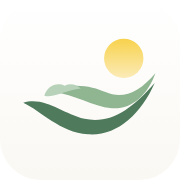
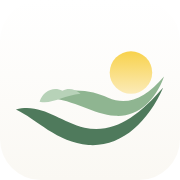
アイコンのマークを、太陽が波の山に重なる構図に調整し、四角アイコンの中での配置を中央に整える
Claude-Session: https://claude.ai/code/session_01GABYT29VUZzXrt2vySzu7C

Changed region(s): [[0.0833, 0.1944, 0.9167, 0.8056]]

diff --git a/src/pages.js b/src/pages.js
@@ -118,7 +118,7 @@ ${chrome ? '<link rel="stylesheet" href="/ds-pages.css">\n' : ''}${extraHead}
 <body data-page="${page}" class="${[chrome ? 'ds' : '', bodyClass].filter(Boolean).join(' ')}">
 ${chrome ? `<header class="site-h">
   <div class="wrap h-in">
-    <a class="logo" href="/" aria-label="WELING トップへ"><img src="/mark.svg" alt="" width="48" height="36">${LOGO}</a>
+    <a class="logo" href="/" aria-label="WELING トップへ"><img src="/mark.svg" alt="" width="54" height="36">${LOGO}</a>
     ${page === 'app' ? '<span id="demoBadge" class="badge" hidden>デモデータ</span>' : ''}
   </div>
   <nav class="wrap nav" aria-label="メインメニュー">
@@ -176,7 +176,7 @@ export function topPage() {
 <div class="stage">
   <aside class="side" aria-label="サイト紹介">
     <div class="side-top">
-      <a class="side-logo" href="/" aria-label="WELING トップへ"><img src="/mark-white.svg" alt="" width="112" height="84"><span class="brand-ln"><b>WELING</b><small>Feel Better, Every Day.</small></span></a>
+      <a class="side-logo" href="/" aria-label="WELING トップへ"><img src="/mark-white.svg" alt="" width="126" height="84"><span class="brand-ln"><b>WELING</b><small>Feel Better, Every Day.</small></span></a>
       <p class="side-title" aria-hidden="true">気圧の変化を、<br>先回りで知る。</p>
     </div>
     <div class="side-copy">
@@ -201,7 +201,7 @@ export function topPage() {
       <nav class="m-nav" aria-label="メインメニュー"><a href="/weather">週間天気</a><a href="/columns">コラム</a><a class="m-app" href="/app/">気圧・記録へ</a></nav>
       <h1 id="hero-title" class="m-title">気圧の変化を、<br>先回りで知る。<span class="sr-only">（WELING：天気痛・気象病の気圧予報と頭痛の記録ノート）</span></h1>
       <div class="m-brand">
-        <img src="/mark-white.svg" alt="" width="75" height="56">
+        <img src="/mark-white.svg" alt="" width="84" height="56">
         <span class="m-word">WELING</span>
         <span class="m-read">Feel Better, Every Day.</span>
         <span class="m-tag">今日を知って、心地よく暮らす。</span>

diff --git a/public/terms.html b/public/terms.html
@@ -17,7 +17,7 @@
 <body>
 <header class="site-h">
   <div class="wrap h-in">
-    <a class="logo" href="/" aria-label="WELING トップへ"><img src="/mark.svg" alt="" width="48" height="36"><span class="ln"><b>WELING</b><small>Feel Better, Every Day.</small></span></a>
+    <a class="logo" href="/" aria-label="WELING トップへ"><img src="/mark.svg" alt="" width="54" height="36"><span class="ln"><b>WELING</b><small>Feel Better, Every Day.</small></span></a>
     <a class="h-app" href="/app/">気圧・記録へ</a>
   </div>
   <nav class="wrap nav" aria-label="メインメニュー">

diff --git a/public/sw.js b/public/sw.js
@@ -1,5 +1,5 @@
 // アプリシェルのキャッシュ + FCM(Web Push)の受信
-const CACHE = 'kiatsu-shell-v60';
+const CACHE = 'kiatsu-shell-v61';
 const SHELL = ['/app/', '/style.css', '/ds.css', '/header.css', '/brand.css', '/app.js', '/wx.js', '/faces.js', '/manifest.json', '/terms.html', '/hero/hero.js', '/hero/hero.css', '/icon.svg', '/vendor/chart.js'];
 
 self.addEventListener('install', (e) => {
